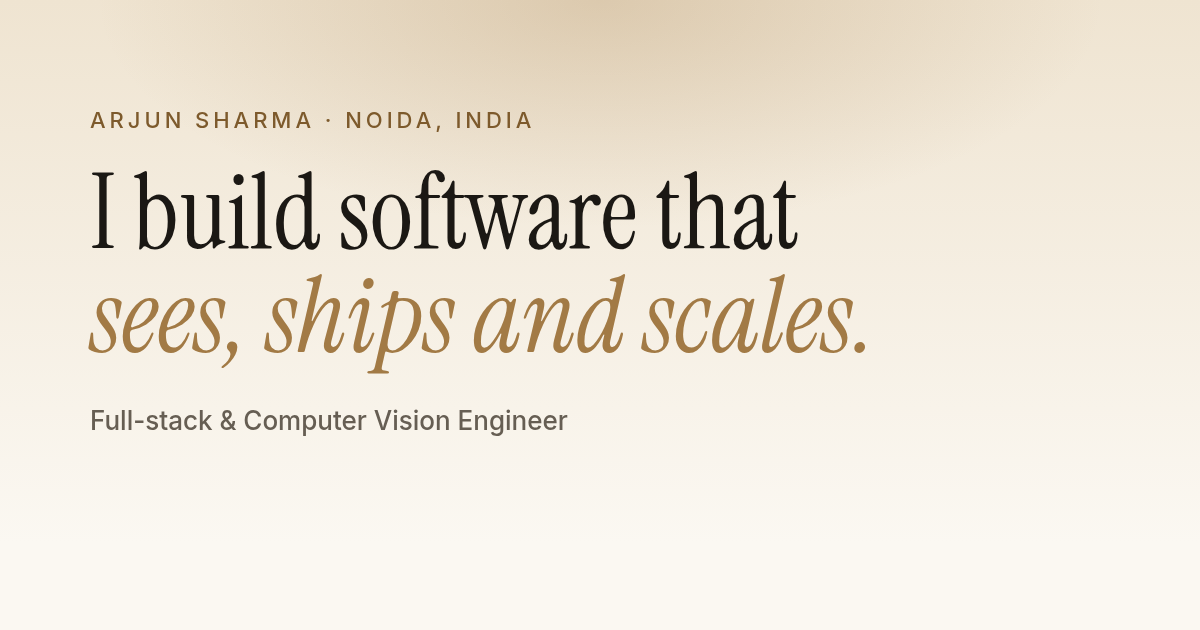
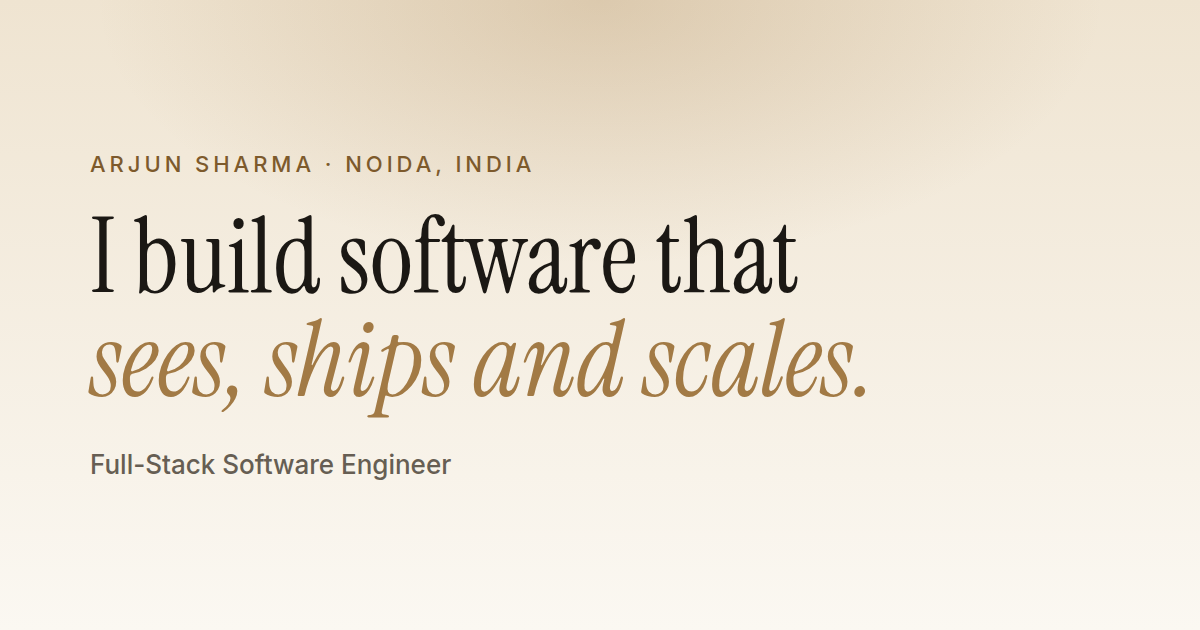
Use one job title across the site and search data

Changed region(s): [[0.0617, 0.2413, 0.74, 0.6937], [0.0617, 0.181, 0.4625, 0.2111], [0.0617, 0.7238, 0.37, 0.754]]

diff --git a/src/lib/seo.ts b/src/lib/seo.ts
@@ -3,7 +3,7 @@ import { experience, topSkills, type Profile, type Project } from '~/content'
 
 export function buildSeo(profile: Profile) {
   const title = `${profile.name} | ${profile.role}`
-  const description = `${profile.name} is a ${profile.role.toLowerCase()} in ${profile.location}, building real-time computer vision in Python and full-stack systems with Java, Spring Boot and React.`
+  const description = `${profile.name} is a ${profile.role.toLowerCase()} in ${profile.location}, building real-time platforms with React, TypeScript and Node.js, plus Java and Spring Boot systems and computer vision in Python.`
   const image = `${SITE_URL}${OG_IMAGE.path}`
 
   const meta = [

diff --git a/scripts/og.html b/scripts/og.html
@@ -5,4 +5,4 @@
 background:radial-gradient(60% 60% at 50% 0%,rgba(162,122,69,.25),transparent 70%),linear-gradient(#efe4d1,#fbf8f2);color:#1b1814;font-family:Inter">
 <div style="font-size:22px;letter-spacing:.18em;text-transform:uppercase;color:#7d5a2c">Arjun Sharma · Noida, India</div>
 <div style="font-family:'Instrument Serif';font-size:104px;line-height:1;margin-top:28px">I build software that<br><i style="color:#a27a45">sees, ships and scales.</i></div>
-<div style="font-size:26px;margin-top:36px;color:#665e53">Full-stack & Computer Vision Engineer</div></body></html>
+<div style="font-size:26px;margin-top:36px;color:#665e53">Full-Stack Software Engineer</div></body></html>

diff --git a/src/content/skills.ts b/src/content/skills.ts
@@ -35,19 +35,20 @@ export const skillGroups: SkillGroup[] = [
 
 /** Headline skills for search metadata (meta keywords and JSON-LD knowsAbout), strongest first. */
 export const topSkills = [
+  'TypeScript',
+  'React',
+  'Node.js',
+  'Express',
   'Java',
   'Spring Boot',
   'PostgreSQL',
-  'Computer Vision',
-  'Python',
-  'PyTorch',
-  'OpenCV',
-  'MediaPipe',
-  'Gaze Estimation',
-  'TypeScript',
-  'React',
-  'Next.js',
-  'Node.js',
   'MongoDB',
-  'GSAP',
+  'Redis',
+  'WebSockets',
+  'MQTT',
+  'Next.js',
+  'TanStack',
+  'Docker',
+  'Python',
+  'Computer Vision',
 ]

diff --git a/src/content/profile.ts b/src/content/profile.ts
@@ -5,7 +5,7 @@ const githubUser = 'Arjun-Sharma-git'
 export const profile: Profile = {
   name: 'Arjun Sharma',
   firstName: 'Arjun',
-  role: 'Full-stack & Computer Vision Engineer',
+  role: 'Full-Stack Software Engineer',
   location: 'Noida, India',
   tagline: 'Developer · Solver · Optimiser',
   summary: 'a full-stack software engineer working across frontend, backend and real-time systems.',

diff --git a/src/content/experience.ts b/src/content/experience.ts
@@ -7,7 +7,7 @@ export const experience: Job[] = [
     location: 'Gurugram, India',
     roles: [
       {
-        title: 'Software Engineer',
+        title: 'Full-Stack Software Engineer',
         type: 'Full-time',
         start: '2025-03',
         mode: 'On-site',
